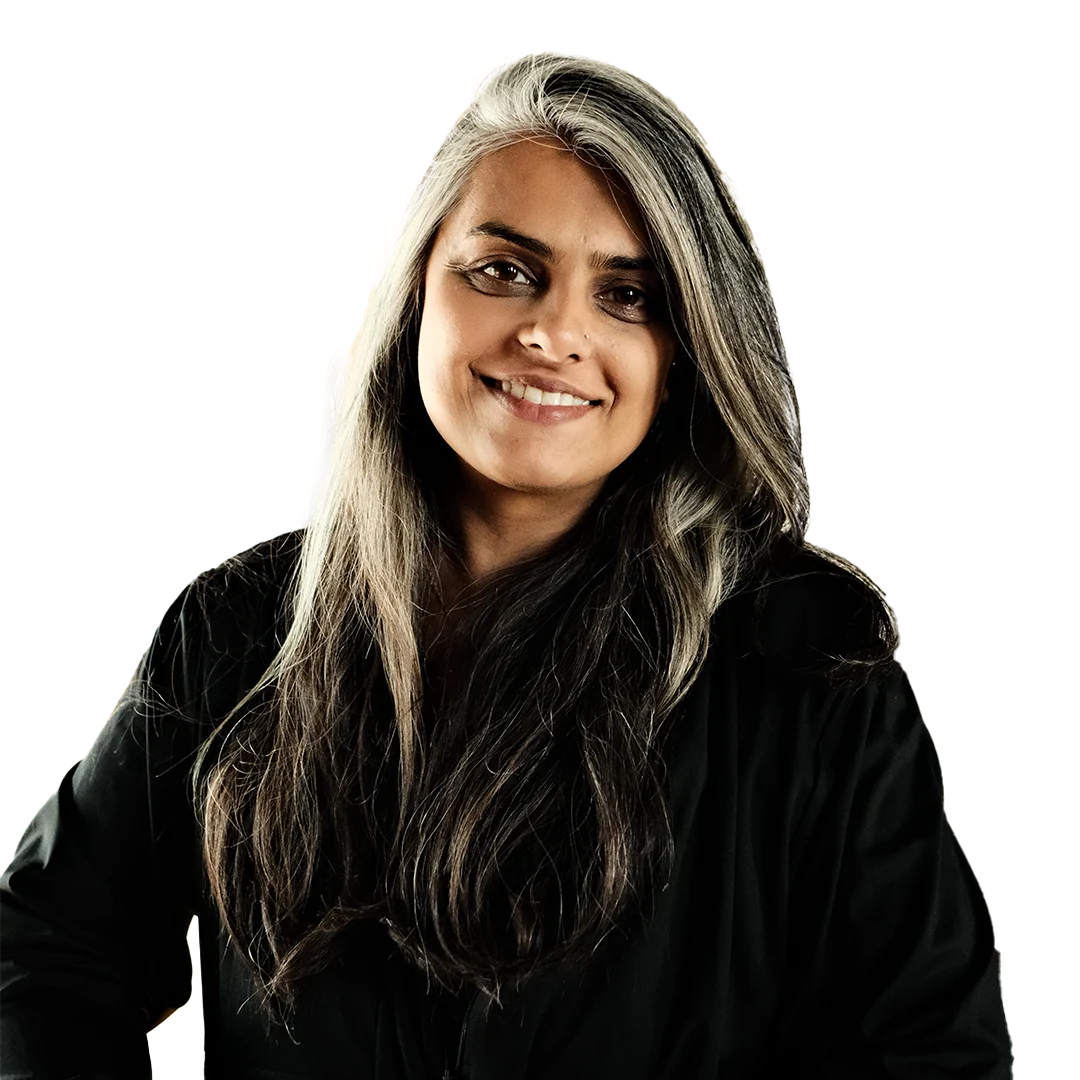
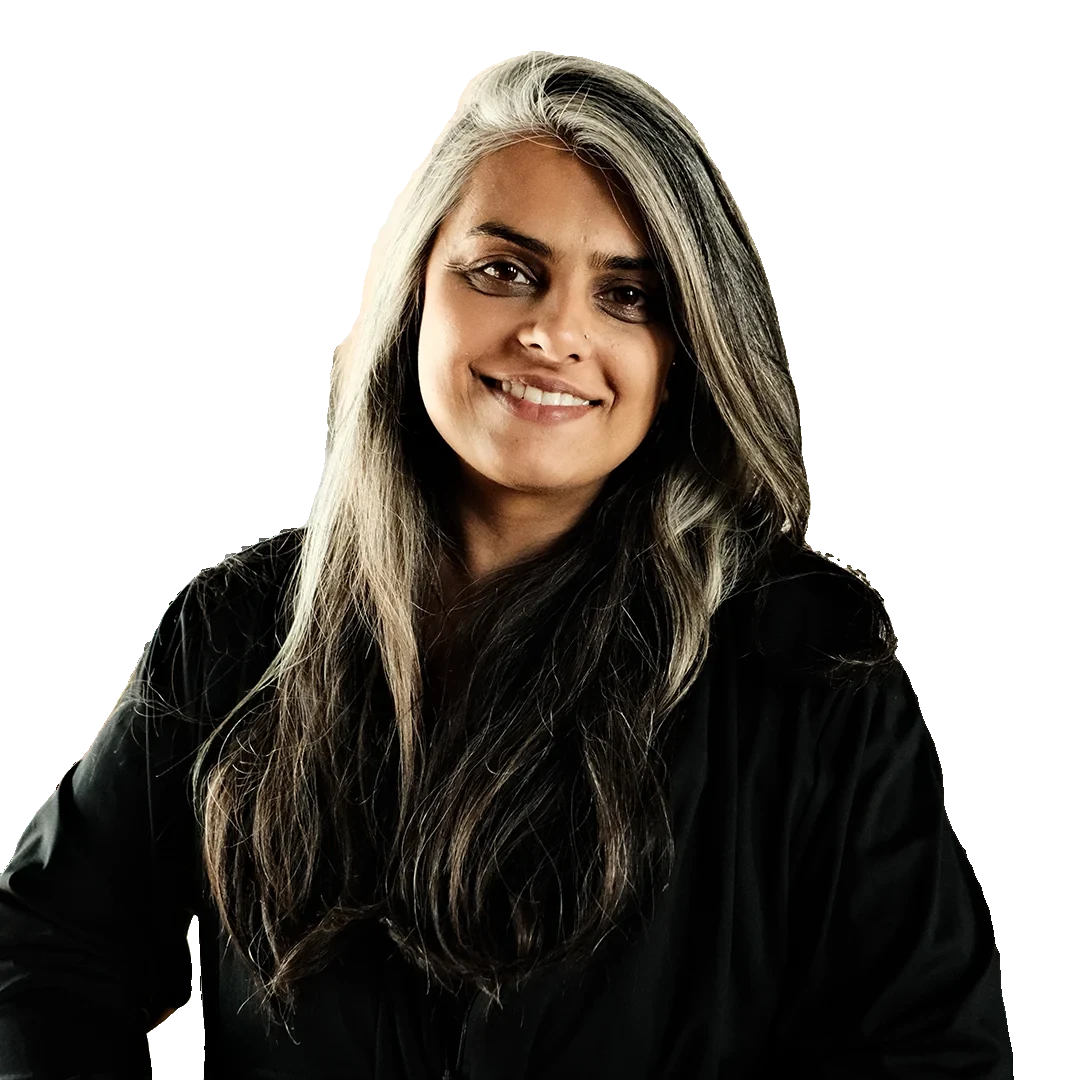
Reza's changes: Suite 460, Donya Taylor, matching portraits, Beyond Brokerage
- Tysons office address: Suite 460 (was 110) everywhere, incl. the
  business schema; fallback data and seed export updated, Sanity value
  corrected in code until it is changed there.
- Home "Meet The Team" follows the Our Team order (Brooke 4th).
- New team member Donya Taylor (/team/donya-taylor/): bio, photo, phone
  and email as provided.
- Justin Katz, Ramzah Khan, Monica Morfin and Donya Taylor portraits cut
  out to transparent backgrounds so every team photo sits on the same beige.
- Home headline: "Beyond Brokerage."

Claude-Session: https://claude.ai/code/session_01VxMXezfPssc2N3w8uETXM2

diff --git a/lib/data/team.ts b/lib/data/team.ts
@@ -427,4 +427,25 @@ export const fallbackTeam: TeamMember[] = [
       "description": "Monica Morfin is a Real Estate Associate at Capital Investment LLC, a commercial real estate firm with offices in Tysons, DC, Bethesda and Miami."
     }
   },
+  {
+    "slug": "donya-taylor",
+    "name": "Donya Taylor",
+    "role": "Real Estate Associate",
+    "order": 23,
+    "photo": {
+      "src": "/images/team/donya-taylor.webp",
+      "alt": "Donya Taylor, Real Estate Associate at Capital Investment LLC",
+      "width": 1221,
+      "height": 1289
+    },
+    "bio": [
+      "With over a decade of experience in the real estate industry, Donya brings extensive knowledge in residential and commercial real estate, investment properties, new construction, and remodeling. Licensed in both Illinois and Florida, she has a strong background in real estate transactions, property development, and investment opportunities.",
+      "Her diverse experience allows her to guide clients through buying, selling, and investing with confidence. With a strong understanding of market trends, property values, and construction costs, Donya is committed to providing exceptional service, building lasting relationships, and helping clients achieve their real estate goals.",
+      "Contact me:\nM: [(847) 345-2536](tel:+18473452536)\n[donya@capitalinvestmentllc.com](mailto:donya@capitalinvestmentllc.com)"
+    ],
+    "seo": {
+      "title": "Donya Taylor, Real Estate Associate | Capital Investment LLC",
+      "description": "Donya Taylor is a Real Estate Associate at Capital Investment LLC, a commercial real estate firm with offices in Tysons, DC, Bethesda and Miami."
+    }
+  },
 ];

diff --git a/lib/about-link.ts b/lib/about-link.ts
@@ -9,6 +9,8 @@ import type { SiteSettings } from "@/lib/types";
  */
 export const ABOUT_PATH = "/about-us/";
 
+const fixSuite = <T extends object>(o: T): T => JSON.parse(JSON.stringify(o).replace(/Suite 110\b/g, "Suite 460"));
+
 export function withAboutLinks(s: SiteSettings): SiteSettings {
   const menu = s.menu.map((item) =>
     item.label === "About" && !item.children?.some((c) => c.href === ABOUT_PATH)
@@ -29,5 +31,7 @@ export function withAboutLinks(s: SiteSettings): SiteSettings {
     return item;
   });
   const footerQuickLinks = s.footerQuickLinks.map((l) => (l.label === "About Us" ? { ...l, href: ABOUT_PATH } : l));
-  return { ...s, menu: menu2, footerQuickLinks };
+  // Tysons office moved to Suite 460 (Reza, Nov 2026); Sanity still says Suite 110.
+  const offices = s.offices.map((o) => (o.key === "tysons" ? fixSuite(o) : o));
+  return { ...s, menu: menu2, footerQuickLinks, offices };
 }

diff --git a/components/sections/Home.tsx b/components/sections/Home.tsx
@@ -78,7 +78,12 @@ export function Comparison({ s }: { s: ComparisonSection }) {
 const sharper = (a?: Img, b?: Img) => (!a ? b : !b ? a : (b.width ?? 0) > (a.width ?? 0) ? b : a);
 
 export function TeamCarousel({ s, team }: { s: TeamCarouselSection; team: TeamMember[] }) {
-  const members = s.members.map((m) => ({ ...m, member: team.find((t) => t.slug === m.slug) })).filter((m) => m.member);
+  // Same order as the Our Team page (team is already sorted, see lib/team-order.ts).
+  const rank = (slug: string) => team.findIndex((t) => t.slug === slug);
+  const members = s.members
+    .map((m) => ({ ...m, member: team.find((t) => t.slug === m.slug) }))
+    .filter((m) => m.member)
+    .sort((a, b) => rank(a.slug) - rank(b.slug));
   return (
     <Section>
       <div className="container-box">

diff --git a/components/sections/HomeHero.tsx b/components/sections/HomeHero.tsx
@@ -89,9 +89,7 @@ export function HomeHero({ s }: { s: HomeHeroSection }) {
           {/* Redesign headline. Sanity is shared with the live site, so it is set here on staging;
               when the redesign ships, put it in Sanity (Home > hero heading) and use s.heading again. */}
           <h1 className="font-serif text-[clamp(44px,6.6vw,100px)] font-normal leading-[1.02] tracking-[-0.015em] text-paper">
-            Commercial Real Estate,{" "}
-            <br />
-            <em className="italic text-gold">Elevated.</em>
+            Beyond <em className="italic text-gold">Brokerage.</em>
           </h1>
           <span aria-hidden="true" className="mt-8 block h-px w-24 bg-paper/70" />
         </div>

diff --git a/lib/data/site.ts b/lib/data/site.ts
@@ -14,10 +14,10 @@ export const fallbackSettings: SiteSettings = {
       key: "tysons",
       name: "Tysons Corner, VA",
       label: "Tysons, VA",
-      address: "8230 Old Courthouse Rd. Suite 110 Vienna, VA. 22182",
-      longAddress: "Tysons Corner, VA. Office 8230 Old Courthouse Rd. Suite 110 Vienna, VA. 22182",
+      address: "8230 Old Courthouse Rd. Suite 460 Vienna, VA. 22182",
+      longAddress: "Tysons Corner, VA. Office 8230 Old Courthouse Rd. Suite 460 Vienna, VA. 22182",
       phone: "(571) 540-8688",
-      mapQuery: "8230 Old Courthouse Rd. Suite 110 Vienna, VA. 22182",
+      mapQuery: "8230 Old Courthouse Rd. Suite 460 Vienna, VA. 22182",
       image: images.tysons,
     },
     {
